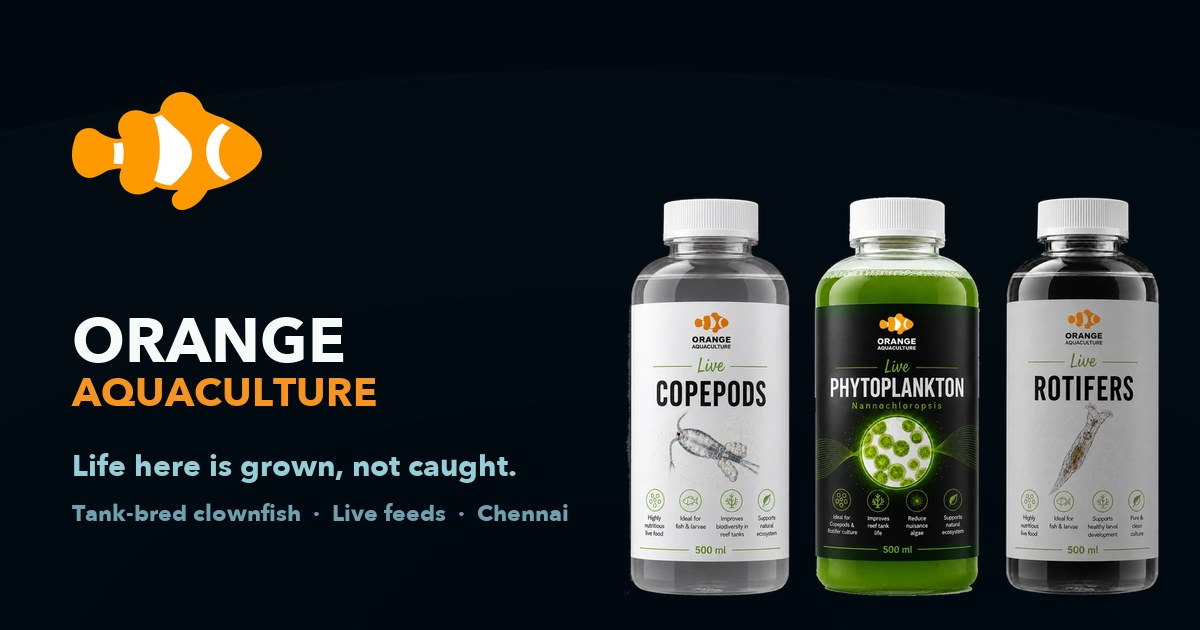
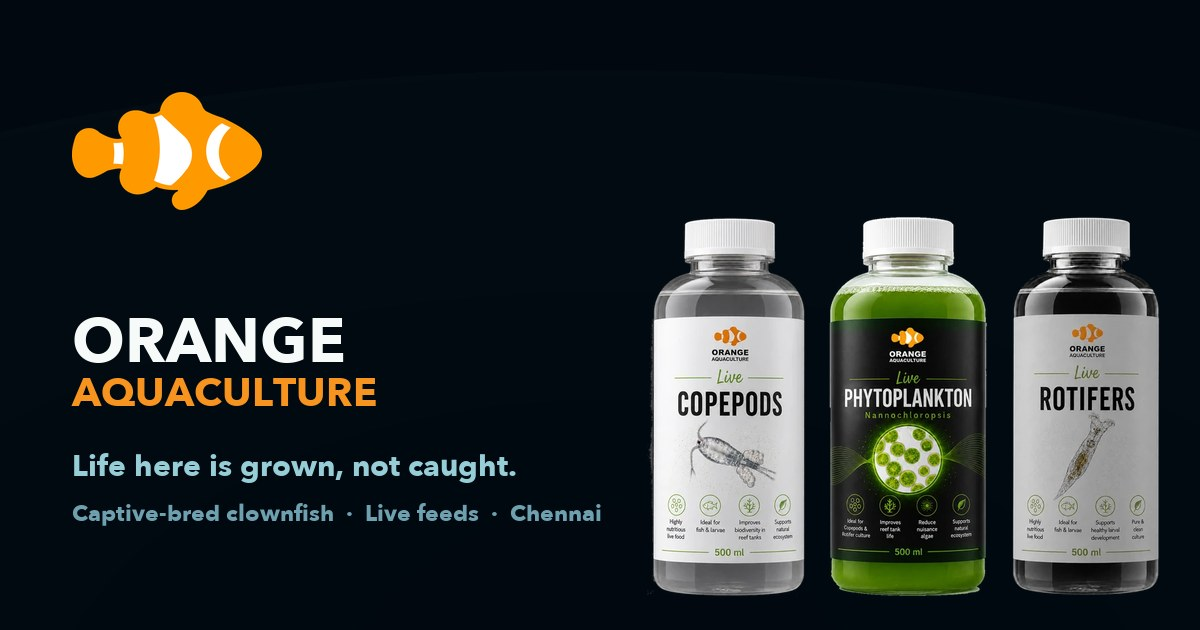
Say captive-bred, not tank-bred; sharpen feed descriptors
"Captive-bred" is the industry term and travels better than "tank-bred"
— 13 instances across visible copy, meta description, OG/Twitter cards
and JSON-LD, plus the share image, which had the old wording rendered
into its pixels.

Copepods: "live saltwater pods" -> "live marine copepods".
Phytoplankton: "live greenwater culture" -> "live microalgae culture".

Changed region(s): [[0.5242, 0.3016, 0.9867, 0.9651], [0.0617, 0.7841, 0.4933, 0.8444], [0.7708, 0.9349, 0.8017, 0.9651]]

diff --git a/index.html b/index.html
@@ -4,7 +4,7 @@
 <meta charset="utf-8">
 <meta name="viewport" content="width=device-width, initial-scale=1">
 <meta name="theme-color" content="#04121d">
-<meta name="description" content="Orange Aquaculture — tank-bred clownfish and live feed cultures (phytoplankton, copepods, rotifers) raised in Chennai for India's marine aquarists.">
+<meta name="description" content="Orange Aquaculture — captive-bred clownfish and live feed cultures (phytoplankton, copepods, rotifers) raised in Chennai for India's marine aquarists.">
 <title>Orange Aquaculture — Chennai Marine Hatchery &amp; Live Feeds</title>
 <link rel="canonical" href="https://orangeaquaculture.com/">
 
@@ -20,15 +20,15 @@
 <meta property="og:site_name" content="Orange Aquaculture">
 <meta property="og:locale" content="en_IN">
 <meta property="og:url" content="https://orangeaquaculture.com/">
-<meta property="og:title" content="Orange Aquaculture — Tank-Bred Clownfish &amp; Live Feeds, Chennai">
-<meta property="og:description" content="Life here is grown, not caught. Tank-bred clownfish and live phytoplankton, copepods and rotifers, raised in a Chennai marine hatchery.">
+<meta property="og:title" content="Orange Aquaculture — Captive-Bred Clownfish &amp; Live Feeds, Chennai">
+<meta property="og:description" content="Life here is grown, not caught. Captive-bred clownfish and live phytoplankton, copepods and rotifers, raised in a Chennai marine hatchery.">
 <meta property="og:image" content="https://orangeaquaculture.com/assets/og-image.jpg">
 <meta property="og:image:width" content="1200">
 <meta property="og:image:height" content="630">
 <meta property="og:image:alt" content="Orange Aquaculture 500 ml bottles of live copepods, phytoplankton and rotifers">
 <meta name="twitter:card" content="summary_large_image">
-<meta name="twitter:title" content="Orange Aquaculture — Tank-Bred Clownfish &amp; Live Feeds, Chennai">
-<meta name="twitter:description" content="Life here is grown, not caught. Tank-bred clownfish and live phytoplankton, copepods and rotifers, raised in a Chennai marine hatchery.">
+<meta name="twitter:title" content="Orange Aquaculture — Captive-Bred Clownfish &amp; Live Feeds, Chennai">
+<meta name="twitter:description" content="Life here is grown, not caught. Captive-bred clownfish and live phytoplankton, copepods and rotifers, raised in a Chennai marine hatchery.">
 <meta name="twitter:image" content="https://orangeaquaculture.com/assets/og-image.jpg">
 
 <link rel="stylesheet" href="styles.css">
@@ -39,7 +39,7 @@
   "@type": "LocalBusiness",
   "@id": "https://orangeaquaculture.com/#business",
   "name": "Orange Aquaculture",
-  "description": "Marine ornamental hatchery in Chennai breeding tank-bred clownfish and growing live feed cultures — phytoplankton, copepods and rotifers.",
+  "description": "Marine ornamental hatchery in Chennai breeding captive-bred clownfish and growing live feed cultures — phytoplankton, copepods and rotifers.",
   "url": "https://orangeaquaculture.com/",
   "email": "orangeaquaculture@gmail.com",
   "image": "https://orangeaquaculture.com/assets/og-image.jpg",
@@ -57,7 +57,7 @@
     { "@type": "Offer", "itemOffered": { "@type": "Product", "name": "Live Phytoplankton (Nannochloropsis), 500 ml" } },
     { "@type": "Offer", "itemOffered": { "@type": "Product", "name": "Live Copepods, 500 ml" } },
     { "@type": "Offer", "itemOffered": { "@type": "Product", "name": "Live Rotifers, 500 ml" } },
-    { "@type": "Offer", "itemOffered": { "@type": "Product", "name": "Tank-bred clownfish juveniles" } }
+    { "@type": "Offer", "itemOffered": { "@type": "Product", "name": "Captive-bred clownfish juveniles" } }
   ]
 }
 </script>
@@ -116,7 +116,7 @@
     <div class="hero-inner">
       <span class="zone-tag">0 m &middot; Surface &middot; Chennai, India</span>
       <h1>Life here is <span class="accent">grown</span>,<br>not caught.</h1>
-      <p class="lede">Tank-bred clownfish and live feed cultures — phytoplankton, copepods and
+      <p class="lede">Captive-bred clownfish and live feed cultures — phytoplankton, copepods and
         rotifers — raised in a Chennai marine hatchery for India's marine aquarists.</p>
       <div class="hero-ctas">
         <a class="btn btn-primary" href="#feeds">Begin the dive</a>
@@ -140,7 +140,7 @@
       <article class="card reveal">
         <div class="card-art"><img class="bottle-shot" src="assets/pods.webp" alt="500 ml bottle of Orange Aquaculture live copepods" width="216" height="520" loading="lazy" decoding="async"></div>
         <h3>Copepods</h3>
-        <p class="sci">Live saltwater pods</p>
+        <p class="sci">Live marine copepods</p>
         <p>The feed finicky fish ask for by name. Seed your refugium, or watch a stubborn mandarin finally start hunting.</p>
         <ul>
           <li>Natural prey for mandarins, wrasses &amp; fry</li>
@@ -153,7 +153,7 @@
       <article class="card reveal">
         <div class="card-art"><img class="bottle-shot" src="assets/phyto.webp" alt="500 ml bottle of Orange Aquaculture live phytoplankton, Nannochloropsis" width="217" height="520" loading="lazy" decoding="async"></div>
         <h3>Phytoplankton</h3>
-        <p class="sci">Live greenwater culture</p>
+        <p class="sci">Live microalgae culture</p>
         <p>Dense, living microalgae — the engine behind every thriving tank. Feed it to your pods, your rotifer cultures and your filter feeders.</p>
         <ul>
           <li>Keeps copepod &amp; rotifer cultures productive</li>
@@ -182,7 +182,7 @@
   <section class="zone" id="fish">
     <div class="zone-head">
       <span class="zone-tag reveal">−14 m &middot; Reef slope</span>
-      <h2 class="reveal">Tank-bred <span class="accent">clownfish</span></h2>
+      <h2 class="reveal">Captive-bred <span class="accent">clownfish</span></h2>
       <p class="lede reveal">From egg clutch to juvenile, every fish is raised here on our own live
         feeds — already eating, already hardy, never taken from a reef.</p>
     </div>
@@ -209,7 +209,7 @@
         <h3>Ocellaris</h3>
         <p class="sci">Amphiprion ocellaris</p>
         <p>The classic. Three clean white bands, an easy temperament, and the fish that starts most saltwater stories.</p>
-        <div class="card-foot"><span class="size">Tank-bred juvenile</span><a href="https://www.instagram.com/orangeaquaculture" target="_blank" rel="noopener">DM for stock</a></div>
+        <div class="card-foot"><span class="size">Captive-bred juvenile</span><a href="https://www.instagram.com/orangeaquaculture" target="_blank" rel="noopener">DM for stock</a></div>
       </article>
 
       <article class="card card--black reveal">
@@ -234,7 +234,7 @@
         <h3>Black Ocellaris</h3>
         <p class="sci">Amphiprion ocellaris var.</p>
         <p>Jet-black body, snow-white bands. Slower to darken, worth the wait — a striking centrepiece pair.</p>
-        <div class="card-foot"><span class="size">Tank-bred juvenile</span><a href="https://www.instagram.com/orangeaquaculture" target="_blank" rel="noopener">DM for stock</a></div>
+        <div class="card-foot"><span class="size">Captive-bred juvenile</span><a href="https://www.instagram.com/orangeaquaculture" target="_blank" rel="noopener">DM for stock</a></div>
       </article>
 
       <article class="card card--snow reveal">
@@ -259,7 +259,7 @@
         <h3>Snowflake</h3>
         <p class="sci">Designer ocellaris</p>
         <p>No two alike — irregular drifts of white across orange. Batches vary; follow the page to catch new clutches.</p>
-        <div class="card-foot"><span class="size">Tank-bred juvenile</span><a href="https://www.instagram.com/orangeaquaculture" target="_blank" rel="noopener">DM for stock</a></div>
+        <div class="card-foot"><span class="size">Captive-bred juvenile</span><a href="https://www.instagram.com/orangeaquaculture" target="_blank" rel="noopener">DM for stock</a></div>
       </article>
     </div>
   </section>
@@ -272,7 +272,7 @@
       <div class="reveal">
         <span class="n">GROWN, NOT CAUGHT</span>
         <h3>Hardier by upbringing</h3>
-        <p>Tank-bred fish have never seen a cyanide bottle or a cargo hold. They arrive already
+        <p>Captive-bred fish have never seen a cyanide bottle or a cargo hold. They arrive already
           adjusted to aquarium life and already eating — the two things that kill wild-caught fish.</p>
       </div>
       <div class="reveal">
